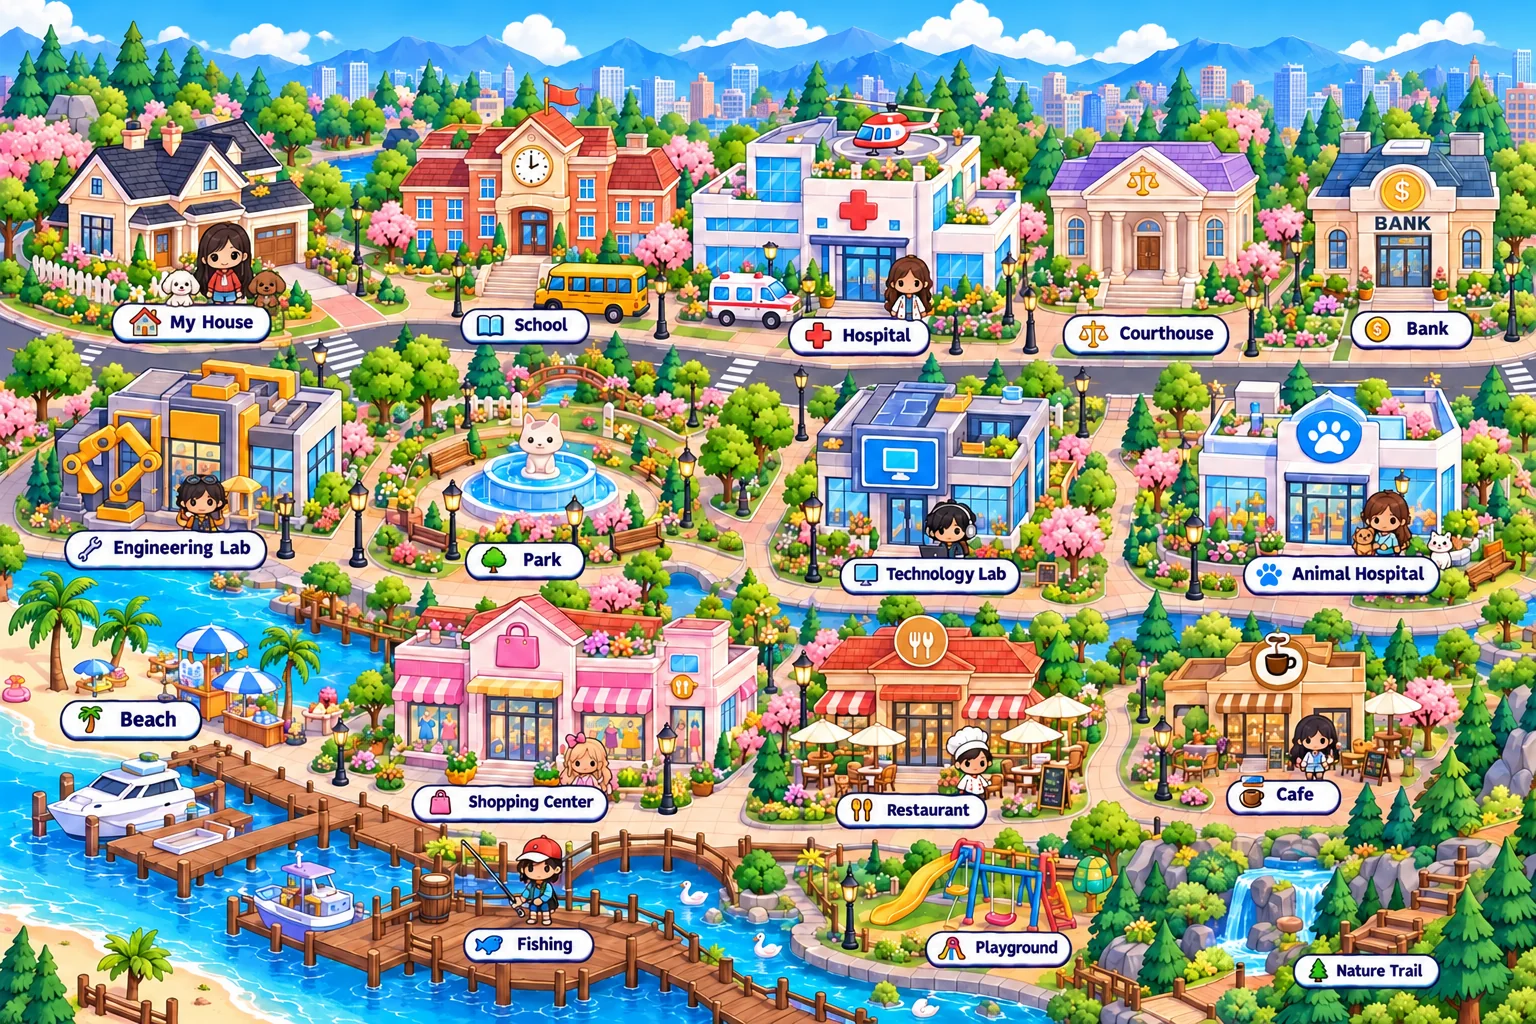
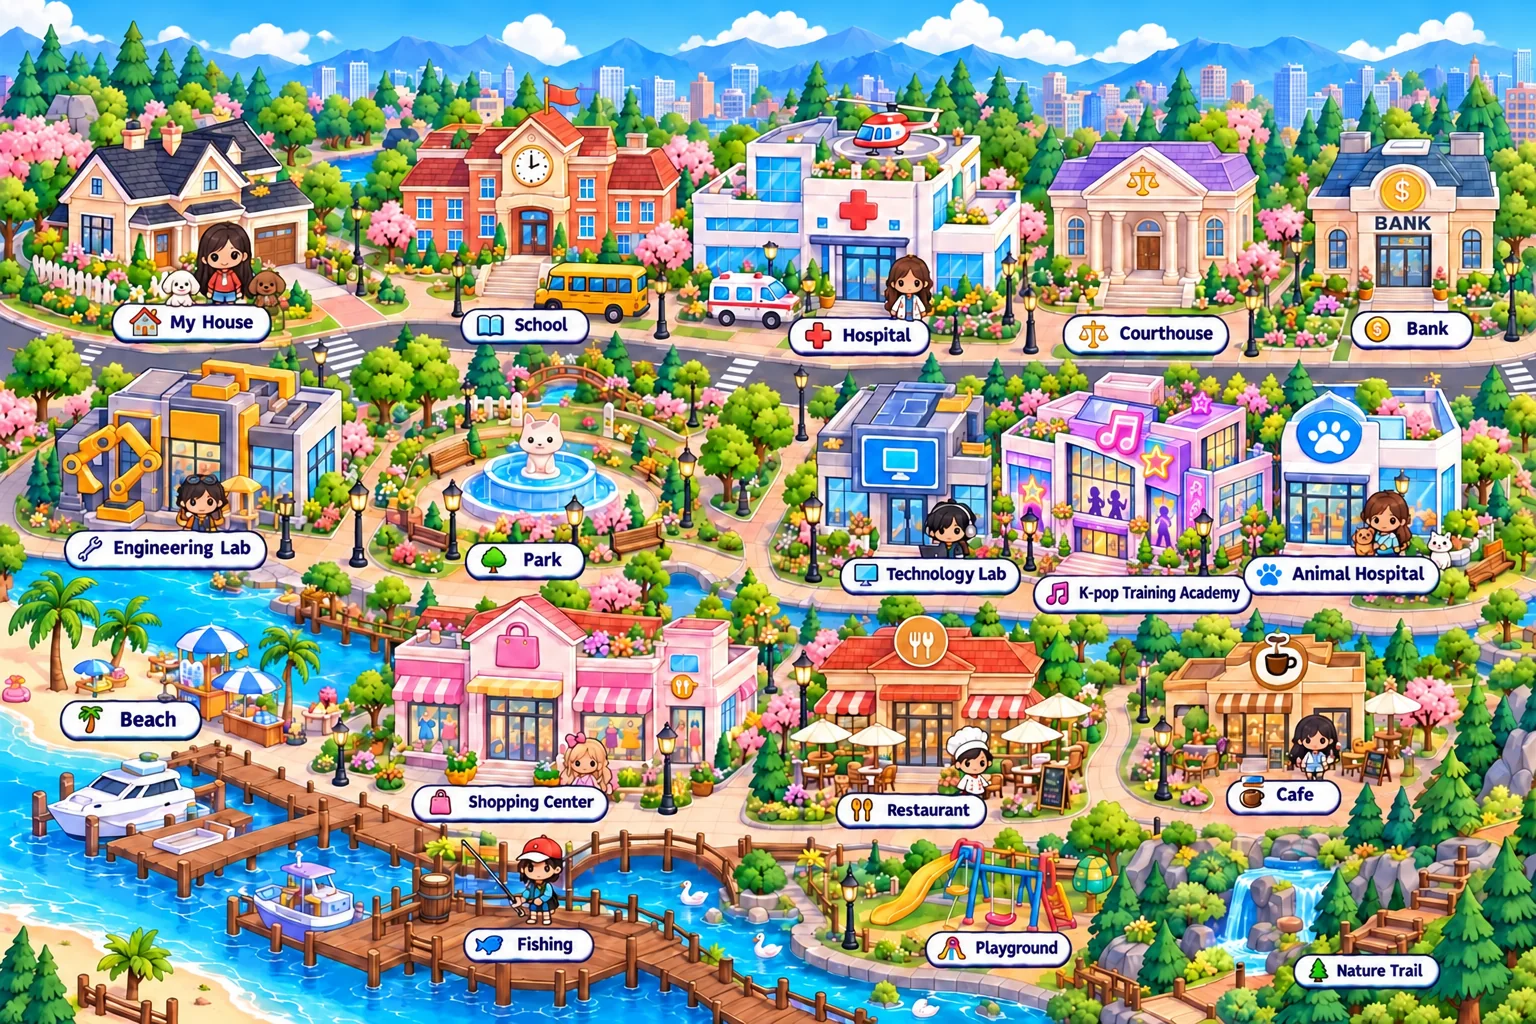
Town map with the K-pop Training Academy; meet Luna the dance trainer

diff --git a/src/data/townfolk.ts b/src/data/townfolk.ts
@@ -72,6 +72,13 @@ export const TOWNFOLK: Partial<Record<BuildingId, Townie>> = {
     ask: 'I need 3 things for my window display. Can you find them?', find: ['👗', '👟', '🎀'],
     thanks: 'My window looks amazing! Thank you!', career: 'entrepreneur',
   },
+  kpop: {
+    name: 'Luna', job: 'Dance trainer', look: A({ tone: 2, hair: 'sleekbob', hairColor: 'pink', top: 'mom-black-zip-jacket', bottom: 'mom-gray-leggings', shoes: 'mom-white-sneakers' }),
+    hello: 'Hi, future star! I’m Luna. I teach dance at the K-pop Training Academy.',
+    fact: 'Trainers help singers and dancers practise every day. Choreographers make up the dance moves, and producers make the music.',
+    ask: 'Our 3 stage things went missing before the show! Can you find them?', find: ['🎤', '🎧', '⭐'],
+    thanks: 'Showtime! The full academy with dance and music training is coming soon.',
+  },
   bank: {
     name: 'Sam', job: 'Bank teller', look: A({ tone: 0, hair: 'dadshort', hairColor: 'blonde', top: 'judge-suit', bottom: 'gray-trousers', shoes: 'black-shoes' }),
     hello: 'Hi! I’m Sam. I help people keep their money safe at the bank.',

diff --git a/src/data/buildings.ts b/src/data/buildings.ts
@@ -42,6 +42,7 @@ export const BUILDINGS: BuildingDef[] = [
   { id: 'fishing', name: 'Fishing', icon: '🎣', playable: false, x: 365, y: 870, w: 150, wall: '#CDEFFF', roof: '#3D7BFF', shape: 'shop', rooms: [], missions: [] },
   { id: 'playground', name: 'Playground', icon: '🛝', playable: false, x: 635, y: 880, w: 150, wall: '#FFE08A', roof: '#FF5D8F', shape: 'shop', rooms: [], missions: [] },
   { id: 'nature-trail', name: 'Nature Trail', icon: '🌲', playable: false, x: 880, y: 890, w: 150, wall: '#D4F7E8', roof: '#5FB894', shape: 'house', rooms: [], missions: [] },
+  { id: 'kpop', name: 'K-pop Training Academy', icon: '🎵', playable: false, x: 640, y: 610, w: 150, wall: '#F3DDFF', roof: '#C77DFF', shape: 'lab', rooms: [], missions: [] },
   { id: 'bank', name: 'Bank', icon: '🏦', playable: false, x: 925, y: 280, w: 120, wall: '#EFEFEF', roof: '#8E8E9A', shape: 'civic', rooms: [], missions: [] },
 ];
 

diff --git a/src/engine/types.ts b/src/engine/types.ts
@@ -10,7 +10,7 @@ export type CareerId =
 export type BuildingId =
   | 'home' | 'school' | 'hospital' | 'courthouse' | 'engineering'
   | 'animal-hospital' | 'tech-lab' | 'restaurant' | 'shopping' | 'bank'
-  | 'park' | 'beach' | 'cafe' | 'fishing' | 'playground' | 'nature-trail';
+  | 'park' | 'beach' | 'cafe' | 'fishing' | 'playground' | 'nature-trail' | 'kpop';
 
 export type FaceShape = 'round' | 'oval' | 'square';
 export type EyeStyle = 'dot' | 'happy' | 'big' | 'lashes' | 'sleepy';

diff --git a/src/scenes/TownMap.tsx b/src/scenes/TownMap.tsx
@@ -18,8 +18,9 @@ export const SPOTS: Record<string, [number, number, number, number]> = {
   bank: [1300, 130, 200, 220],
   engineering: [55, 360, 290, 215],
   park: [370, 395, 310, 190],
-  'tech-lab': [810, 380, 240, 215],
-  'animal-hospital': [1195, 380, 250, 220],
+  'tech-lab': [810, 380, 190, 220],
+  kpop: [1005, 385, 245, 225],
+  'animal-hospital': [1255, 380, 195, 220],
   beach: [10, 570, 290, 180],
   shopping: [390, 585, 370, 240],
   restaurant: [790, 600, 265, 230],
